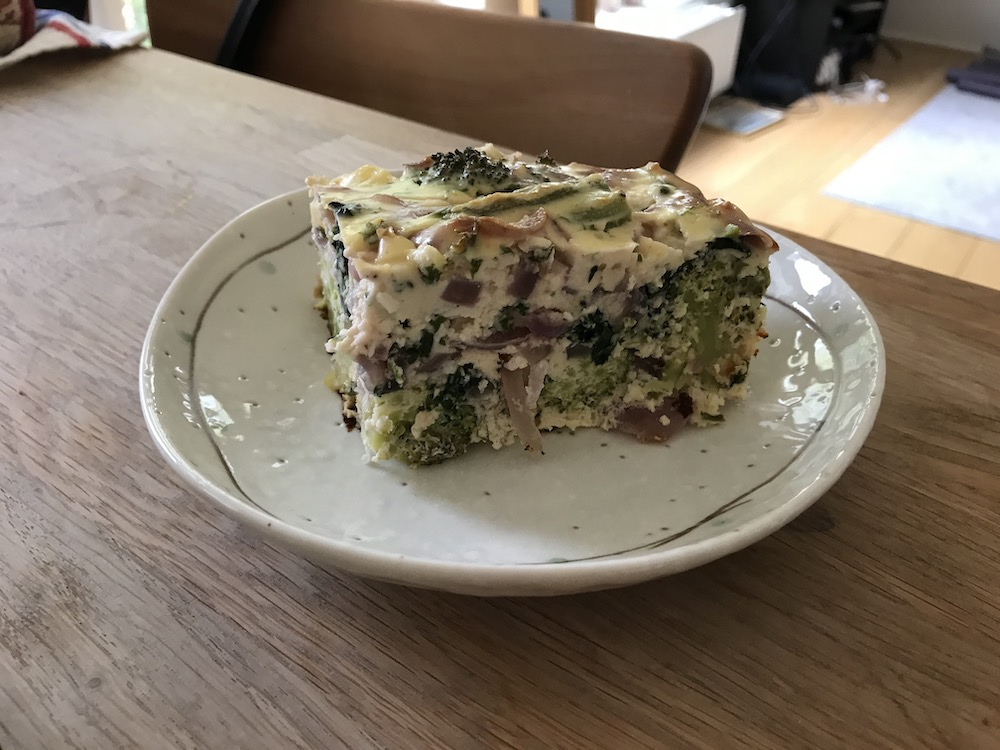
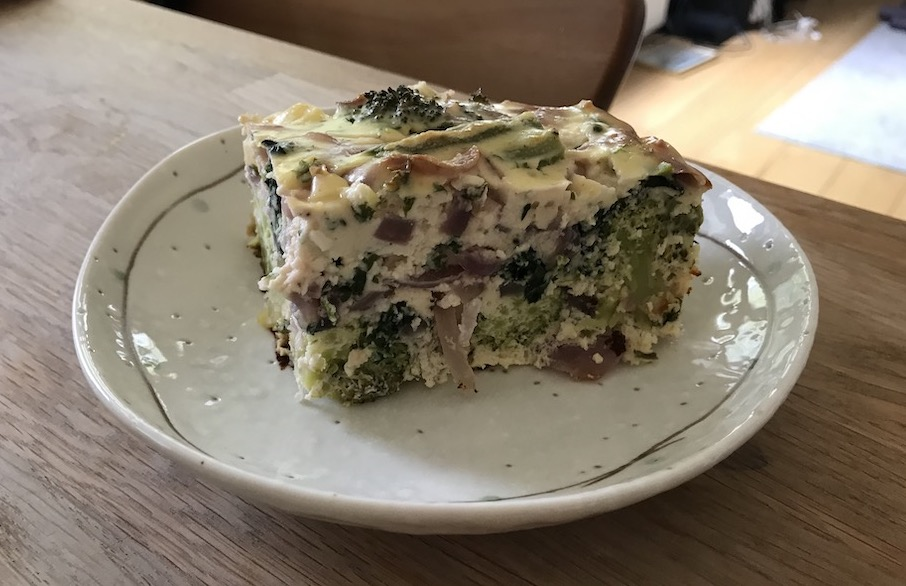
add quiche receipe

diff --git a/_recipes/2020-08-17-crustless-quiche.md b/_recipes/2020-08-17-crustless-quiche.md
@@ -6,7 +6,7 @@
 
 __15/07/2020__
 
-[quiche](https://shusson.info/assets/quiche.jpg)
+![quiche](/assets/quiche.jpg)
 
 ## Ingredients
 - 1 tablespoon butter
